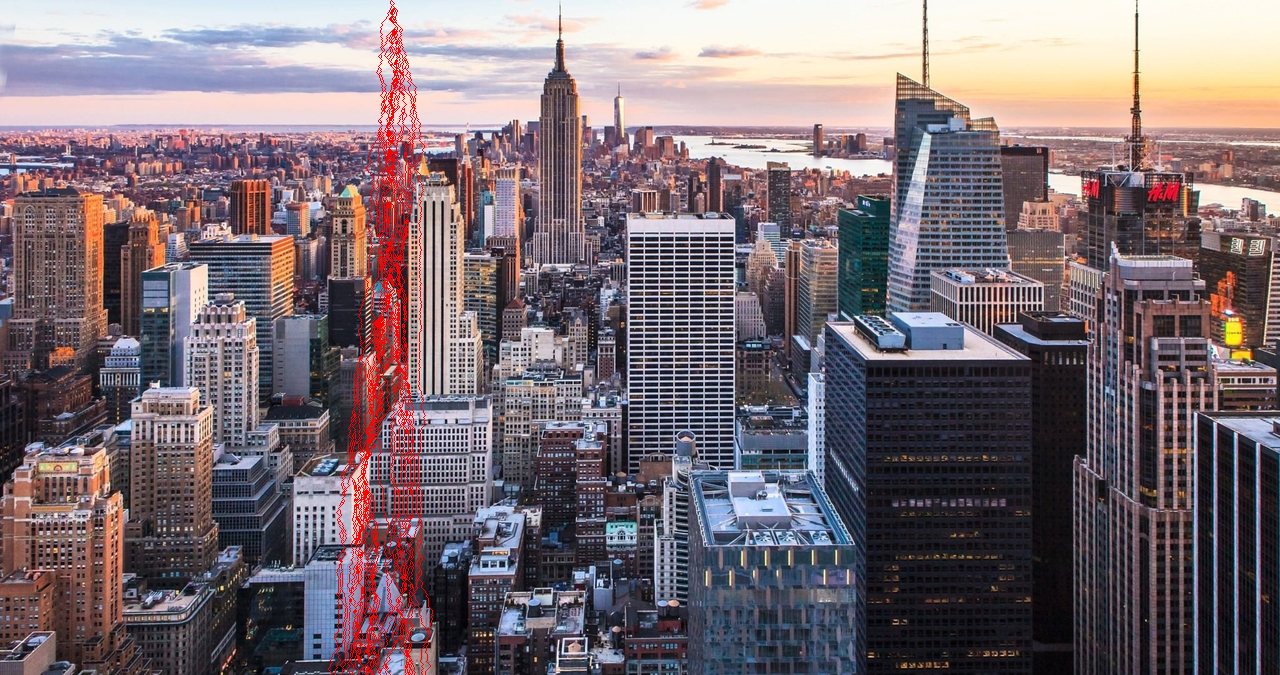
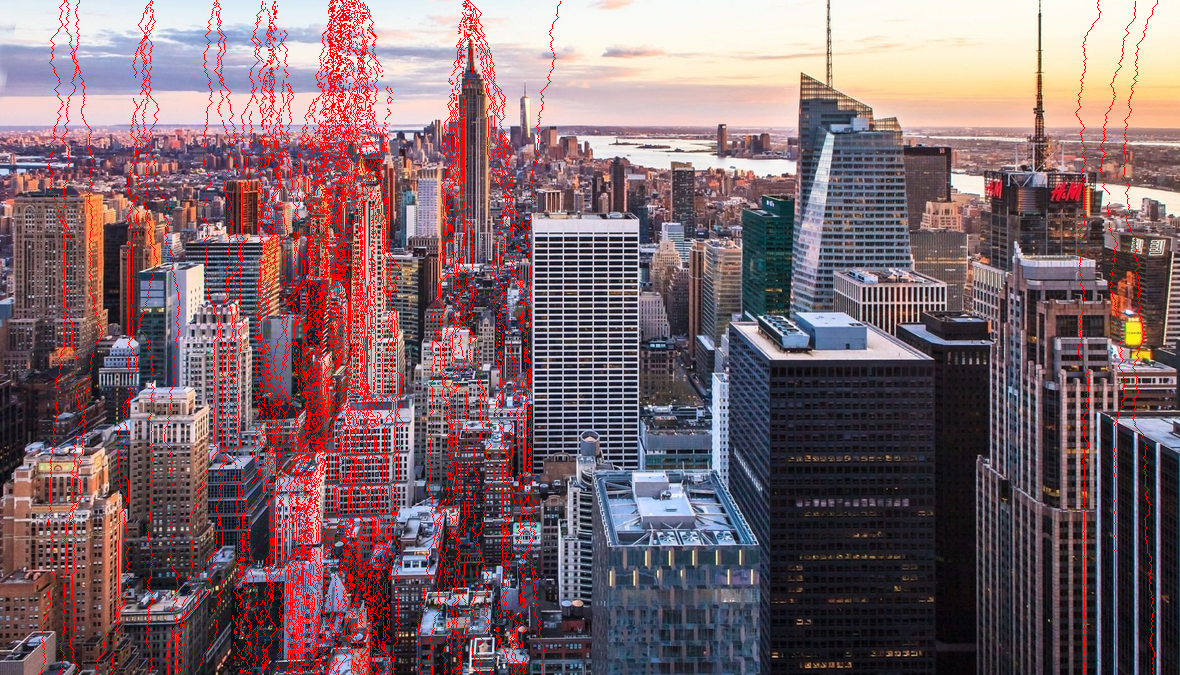
fixed removeSeams methods

diff --git a/SeamCarver.java b/SeamCarver.java
@@ -136,7 +136,7 @@ public class SeamCarver {
         if (seam.length != picture.width()) {
             throw new IllegalArgumentException();
         }
-        SeamRemover.removeHorizontalSeam(picture, findHorizontalSeam());
+        picture = SeamRemover.removeHorizontalSeam(picture, findHorizontalSeam());
     }
 
 
@@ -144,7 +144,7 @@ public class SeamCarver {
         if (seam.length != picture.height()) {
             throw new IllegalArgumentException();
         }
-        SeamRemover.removeVerticalSeam(picture, findVerticalSeam());
+        picture = SeamRemover.removeVerticalSeam(picture, findVerticalSeam());
     }
 
     private void checkIndex(int x, int y) {

diff --git a/out/production/hw5/README.md b/out/production/hw5/README.md
@@ -7,14 +7,10 @@
 **Energy calculation:** The first step is to calculate the energy of each pixel, which is a measure of the importance of each pixel—the higher the energy, the less likely that the pixel will be included as part of a seam. The energy of a pixel is compute using the dual gradient energy function. A high-energy pixel corresponds to a pixel where there is a sudden change in color. The seam-carving technique avoids removing such high-energy pixels to preserve as much of the orignal image's properties as it can. Pixels with higher energy values have whiter values.  
 The energy picture the image below is shown on the right.
 
-
-
-
 <p align="middle">
-  <img src="https://i.imgur.com/eIQVUYP.jpg" width="450" />
-  <img src="https://i.imgur.com/pIaHQVx.jpg" width="450" /> 
+  <img src="images/nyc.jpg" width="500" />
+  <img src="images/nyc-energy.jpg" width="500" /> 
 </p>
-
 
 **Seam Identification:** The next step is to find a vertical seam of minimum total energy. This is similar to the classic shortest path problem in an edge-weighted digraph except for the following:
  * The weights are on the vertices instead of the edges.
@@ -22,3 +18,20 @@ The energy picture the image below is shown on the right.
  * The digraph is acyclic, where there is a downward edge from pixel (x, y) to pixels (x − 1, y + 1), (x, y + 1), and (x + 1, y + 1), assuming that the coordinates are in the     prescribed range.
 
 **Seam Removal:** The final step is remove from the image all of the pixels along the seam. The logic for this method has been implemented for you in the supplementary SeamRemover class, provided in SeamRemover.java.
+
+### Usage:  
+
+To visualize the seam removal process, run ```SeamCarverVisualizer.java``` with the following command line arguements:   
+
+```java SeamCarverVisualizer [filename] [numPixels to remove] [y (if horizontal carving) | N (otherwise)]``` 
+
+Example: Remove 100 vertical seams from the image ```nyc.jpg```.
+
+```java SeamCarverVisualizer images/nyc.jpg 100 N```
+
+Output: 
+
+<p align="middle">
+  <img src="https://user-images.githubusercontent.com/55007814/111056818-1d5fcd80-8450-11eb-84dd-61e8d736b576.png" width="650" />
+</p>
+
